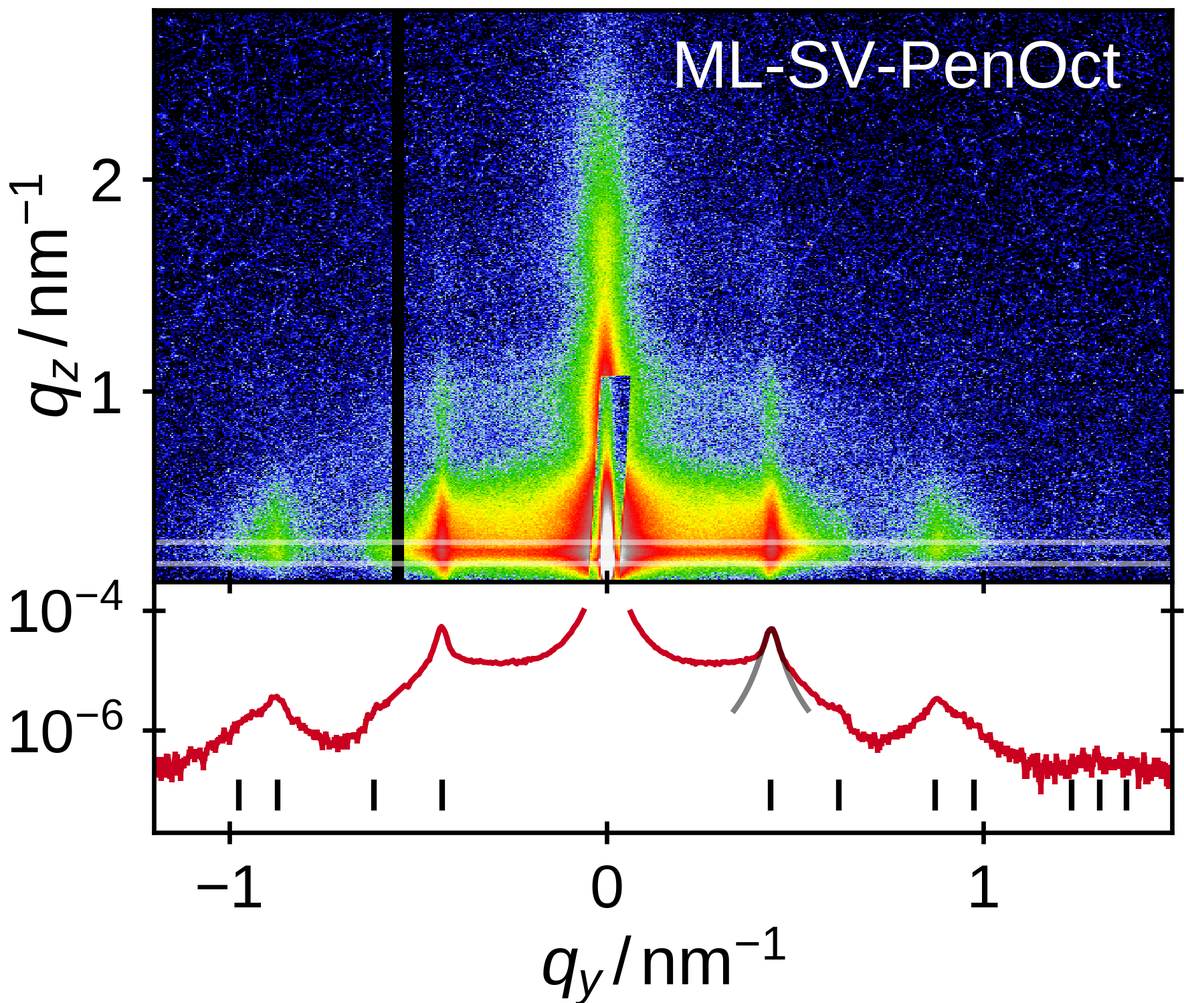
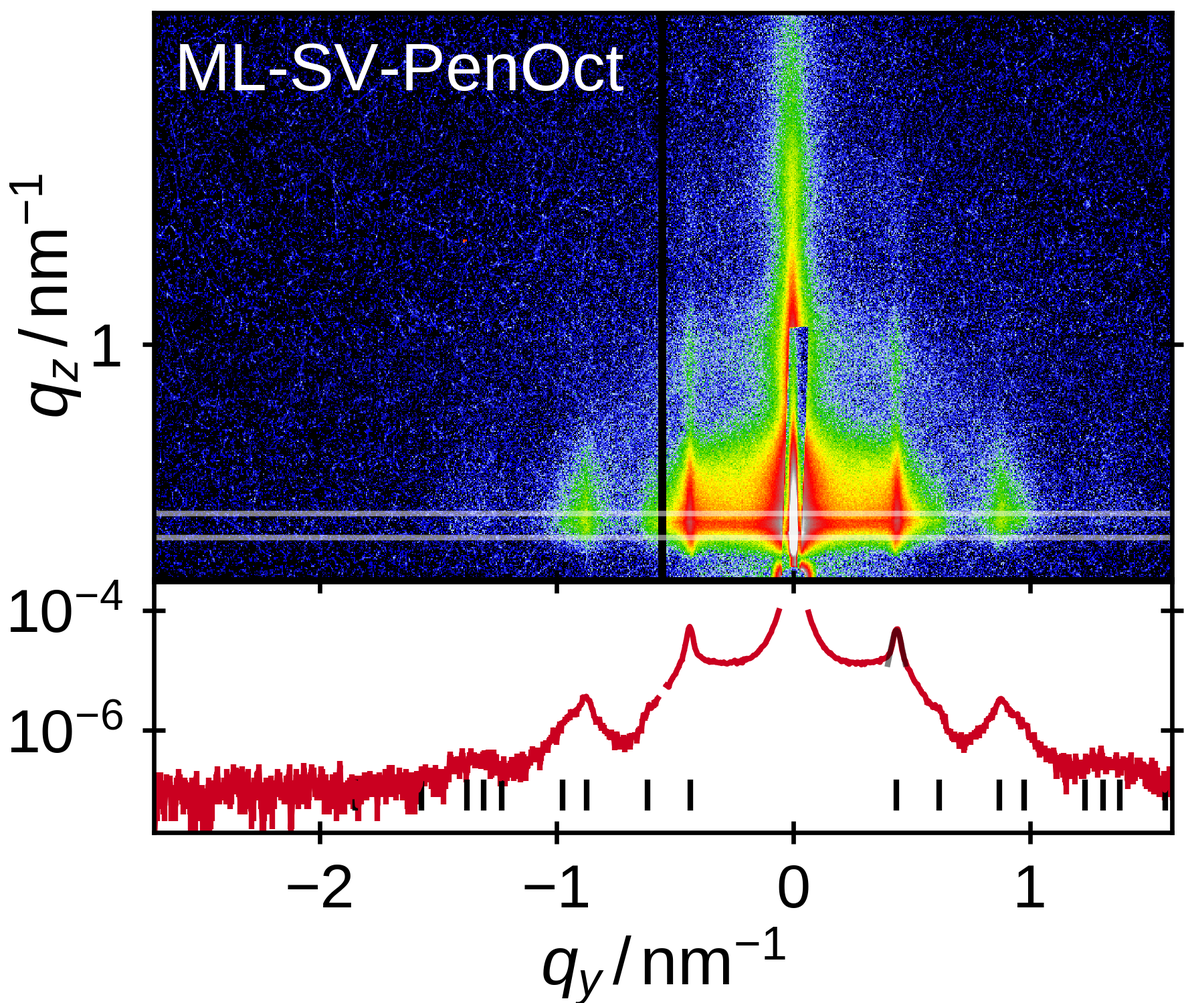
Important corrections in ML performed

diff --git a/data/monolayers/preparation/solventProperties/gisaxs/plot_gisas.py b/data/monolayers/preparation/solventProperties/gisaxs/plot_gisas.py
@@ -12,12 +12,17 @@ from GALAXI.dd_gisaxs.dd_gisaxs import DDGISAXS
 import matplotlib.colors as mcolors
 import matplotlib.patheffects as PathEffects
 from mpl_toolkits.axes_grid1 import make_axes_locatable
+from scipy.special import wofz
 
 default_sdd = 1593.5 + 140
 default_beamcenter = (610.617 - 1.474, 337.923)
 
 qz_min = 0.185
 qz_max = 0.285
+
+vmin = 1e-9
+vmax = 15e-6
+ymin, ymax = 2e-8, 2e-4
 
 chapter = 'monolayers'
 
@@ -62,37 +67,70 @@ def lorentzian(x, p):
   sig = p['sig'].value
   return A * 1./( 4*((x-mu)/sig)**2 + 1 )
 
-def fit_peak(f, Ainit, muinit, siginit, q, I, sI, vary_A=True, vary_mu=True, vary_sig=True):
-  def residuum(p, q, I, sI):
-    return (I - lorentzian(q, p))/sI
-  dq = 0.03
-  sig_beam_width = 0.0195 # nm-1
-  error_sig_beam_width = 0.0007 # nm-1
+def fadeeva(x, p):
+  A = p['A'].value
+  mu = p['mu'].value
+  sigG = p['sigG'].value
+  sigL = p['sigL'].value
+  c = p['c'].value
+  z = ((x - mu) + 1j*sigL/2)/(sigG*np.sqrt(2))
+  return A*wofz(z).real / (sigG*np.sqrt(2*np.pi)) + c
 
+# def fit_peak(f, Ainit, muinit, siginit, q, I, sI, vary_A=True, vary_mu=True, vary_sig=True):
+#   def residuum(p, q, I, sI):
+#     return (I - lorentzian(q, p))/sI
+#   dq = 0.03
+#   sig_beam_width = 0.0195 # nm-1
+#   error_sig_beam_width = 0.0007 # nm-1
+
+#   p = lmfit.Parameters()
+#   p.add('A', Ainit, min=0, vary=vary_A)
+#   p.add('mu', muinit, vary=vary_mu)
+#   p.add('sig', siginit, min=0, vary=vary_sig)
+
+#   fit_range = np.logical_and(muinit-dq < q, q < muinit+dq)
+#   fit_result = lmfit.minimize(residuum,\
+#             p, args=(q[fit_range], I[fit_range], sI[fit_range]))
+#   p_result = fit_result.params
+#   print(lmfit.fit_report(fit_result))
+#   f.write(lmfit.fit_report(fit_result)+'\n')
+#   f.write(f"a = {2*np.pi/p_result['mu'].value} +/- {2*np.pi*p_result['mu'].stderr/p_result['mu'].value**2}\n")
+#   corrected_sig = np.sqrt(p_result['sig'].value**2 - sig_beam_width**2)
+#   error_corrected_sig = np.sqrt(
+#     (p_result['sig'].value/np.sqrt(p_result['sig'].value**2 - sig_beam_width**2) * p_result['sig'].stderr)**2 +
+#     (sig_beam_width/np.sqrt(p_result['sig'].value**2 - sig_beam_width**2) * error_sig_beam_width)**2
+#   )
+#   f.write(f"BeamWidthCorrectedSig = {corrected_sig} +/- {error_corrected_sig}\n")
+#   d_coh = 4*np.pi**2 / corrected_sig
+#   error_d_coh = 4*np.pi**2 / corrected_sig**2 * error_corrected_sig
+#   f.write(f"d_coh = {d_coh} +/- {error_d_coh}\n")
+#   return p_result
+
+def fit_peak(f, Ainit, muinit, siginit, cinit, q, I, sI, dqL=0.03, dqR=0.03, vary_A=True, vary_mu=True, vary_sig=True, vary_c=False):
+  def residuum(p, q, I, sI):
+    return (I - fadeeva(q, p))/sI
   p = lmfit.Parameters()
   p.add('A', Ainit, min=0, vary=vary_A)
   p.add('mu', muinit, vary=vary_mu)
-  p.add('sig', siginit, min=0, vary=vary_sig)
-
-  fit_range = np.logical_and(muinit-dq < q, q < muinit+dq)
+  p.add('sigL', siginit, min=0, vary=vary_sig)
+  p.add('sigG', 0.0084, min=0, vary=False)
+  p.add('c', cinit, min=0, vary=vary_c)
+  fit_range = np.logical_and(muinit-dqL < q, q < muinit+dqR)
   fit_result = lmfit.minimize(residuum,\
             p, args=(q[fit_range], I[fit_range], sI[fit_range]))
   p_result = fit_result.params
   print(lmfit.fit_report(fit_result))
   f.write(lmfit.fit_report(fit_result)+'\n')
-  f.write(f"a = {2*np.pi/p_result['mu'].value} +/- {2*np.pi*p_result['mu'].stderr/p_result['mu'].value**2}\n")
-  corrected_sig = np.sqrt(p_result['sig'].value**2 - sig_beam_width**2)
-  error_corrected_sig = np.sqrt(
-    (p_result['sig'].value/np.sqrt(p_result['sig'].value**2 - sig_beam_width**2) * p_result['sig'].stderr)**2 +
-    (sig_beam_width/np.sqrt(p_result['sig'].value**2 - sig_beam_width**2) * error_sig_beam_width)**2
-  )
-  f.write(f"BeamWidthCorrectedSig = {corrected_sig} +/- {error_corrected_sig}\n")
-  d_coh = 4*np.pi**2 / corrected_sig
-  error_d_coh = 4*np.pi**2 / corrected_sig**2 * error_corrected_sig
+  aLattice = 2*np.pi/p_result['mu'].value
+  error_aLattice = aLattice * p_result['mu'].stderr/p_result['mu'].value
+  f.write(f"a = {aLattice} +/- {error_aLattice}\n")
+
+  d_coh = 4*np.pi**2 / p_result['sigL'].value
+  error_d_coh = d_coh  * p_result['sigL'].stderr/ p_result['sigL'].value
   f.write(f"d_coh = {d_coh} +/- {error_d_coh}\n")
   return p_result
 
-def plot_gisas(filepath, sample_name, f, A10, q10, dq10):
+def plot_gisas(filepath, sample_name, f, A10, q10, dq10, c10, dqL=0.03, dqR=0.03):
   savefile = chapter + '_GISAXS_' + sample_name
   obj = DDGISAXS()
   obj.set_sdd(default_sdd)
@@ -104,10 +142,9 @@ def plot_gisas(filepath, sample_name, f, A10, q10, dq10):
 
   data = obj.get_data()
   qyslice, I_qyslice, sI_qyslice = obj.get_qy_slice(qz_min, qz_max)
-
   if dq10 is not None:
     f.write(f'#Fitting {filepath}\n')
-    p_lorentzian = fit_peak(f, A10, q10, dq10, qyslice, I_qyslice, sI_qyslice)
+    p_lorentzian = fit_peak(f, A10, q10, dq10, c10, qyslice, I_qyslice, sI_qyslice, dqL, dqR)
 
   x0, y0 = 0.13, 0.17
   width, height = 1 - x0 - 0.01, 1 - y0 - 0.01
@@ -118,59 +155,66 @@ def plot_gisas(filepath, sample_name, f, A10, q10, dq10):
 
   pcm = ax.pcolormesh(qy, qz, data.T,\
                       norm=mcolors.LogNorm(),\
-                      cmap=obj.cmap, vmin = 1e-9, vmax=15e-6)
+                      cmap=obj.cmap, vmin=vmin, vmax=vmax)
   ax.axhline(qz_min, color='white', marker='None', alpha=0.5)
   ax.axhline(qz_max, color='white', marker='None', alpha=0.5)
   # divider3 = make_axes_locatable(ax)
   # cax = divider3.append_axes('right', size="2.5%", pad=0.1)
   # cbar = fig.colorbar(pcm, cax=cax, orientation='vertical')
   ax.set_xticks([])
+  ax.set_yticks([0, 1])
   ax2.set_xlabel('$\mathit{q_y} \, / \, nm^{-1}$')
   ax.set_ylabel('$\mathit{q_z} \, / \, nm^{-1}$')
 
-  txt = ax.text(0.95, 0.95,\
+  txt = ax.text(0.02, 0.95,\
           sample_name,\
           color='white',\
-          horizontalalignment='right',
+          horizontalalignment='left',
           verticalalignment='top',\
           transform=ax.transAxes)
   # txt.set_path_effects([PathEffects.withStroke(linewidth=2, foreground='black')])
 
   plot_q_square_lines(q10, ax2)
-  data_left = qyslice<-0.06
+  data_left1 = np.logical_and(qyslice > -0.55, qyslice<-0.06)
+  data_left2 = qyslice<-0.56
   data_right = qyslice>0.06
   ax2.errorbar(
-    qyslice[data_left], I_qyslice[data_left], sI_qyslice[data_left],
-    linestyle='-', capsize=0, elinewidth=1, color='#ca0020'
+    qyslice[data_left1], I_qyslice[data_left1], sI_qyslice[data_left1],
+    linestyle='-', marker='None', capsize=0, elinewidth=1, color='#ca0020'
+  )
+  ax2.errorbar(
+    qyslice[data_left2], I_qyslice[data_left2], sI_qyslice[data_left2],
+    linestyle='-', marker='None', capsize=0, elinewidth=1, color='#ca0020'
   )
   ax2.errorbar(
     qyslice[data_right], I_qyslice[data_right], sI_qyslice[data_right],
-    linestyle='-', capsize=0, elinewidth=1, color='#ca0020'
+    linestyle='-', marker='None', capsize=0, elinewidth=1, color='#ca0020'
   )
   if dq10 is not None:
-    plot_width = 0.1
-    plot_lorentzian = np.logical_and(p_lorentzian['mu'].value-plot_width < qyslice, qyslice < p_lorentzian['mu'].value+plot_width)
+    plot_width = 0.5
+    plot_lorentzian = np.logical_and(p_lorentzian['mu'].value-dqL < qyslice, qyslice < p_lorentzian['mu'].value+dqR)
     ax2.plot(
-      qyslice[plot_lorentzian], lorentzian(qyslice[plot_lorentzian], p_lorentzian),
+      qyslice[plot_lorentzian], fadeeva(qyslice[plot_lorentzian], p_lorentzian),
       linestyle='-', marker='None', color='black', zorder=10, alpha=0.5
     )
   ax2.set_yscale('log')
   # ax2.get_yaxis().set_visible(False)
   plt.setp(ax.get_xticklabels(), visible=False)
-  # plt.setp(ax2.get_yticklabels(), visible=False)
-  # ax.legend(loc='best')
-  ax.set_xlim(-1.2,1.5)
-  ax2.set_xlim(-1.2,1.5)
-  ax.set_ylim(0.1, 2.8)
+  # ax.set_xlim(-1.1,1.6)
+  # ax2.set_xlim(-1.1,1.6)
+  # ax.set_ylim(0, 1.5)
+  ax.set_xlim(-2.7,1.6)
+  ax2.set_xlim(-2.7,1.6)
+  ax.set_ylim(0.01, 2.4)
   ax2.set_ylim([2e-8, 3e-4])
-  # ax2.legend()
+  ax.set_aspect('equal')
   fig.savefig(cwd + '/' + savefile)
   fig.savefig(thesisimgs+'/'+savefile)
-
+  # plt.show()
 with open('peak_fit_parameters', 'w') as f:
   f.write('#Fitting first order peak of GISAXS data\n')
   f.write(f'#Date of execution: {dt.datetime.now()}\n')
-  plot_gisas(cwd+"/DD192_Hex2_2_ai_0-11.h5", 'ML-SV-HexTet', f, 5e-5, 0.439, None)
-  plot_gisas(cwd+"/DD192_Pen2_2_ai_0-11.h5", 'ML-SV-PenOct', f, 5e-5, 0.436, 4.6e-2)
-  plot_gisas(cwd+"/DD192_Hex1_2_ai_0-11.h5", 'ML-SV-HexOct', f, 5e-5, 0.4417, 3e-2)
-  plot_gisas(cwd+"/DD192_Hep1_2_ai_0-11.h5", 'ML-SV-HepOct', f, 5e-5, 0.477, 2.4e-2)
+  plot_gisas(cwd+"/DD192_Hex2_2_ai_0-11.h5", 'ML-SV-HexTet', f, 5e-5, 0.46272770, 0.11090645, 2e-7, dqL=0.05, dqR=0.1)
+  plot_gisas(cwd+"/DD192_Pen2_2_ai_0-11.h5", 'ML-SV-PenOct', f, 5e-5, 0.43573512, 0.04453507, 2e-7, dqL=0.04, dqR=0.04)
+  plot_gisas(cwd+"/DD192_Hex1_2_ai_0-11.h5", 'ML-SV-HexOct', f, 5e-5, 0.44156585, 0.02555754, 2e-7, dqL=0.04, dqR=0.04)
+  plot_gisas(cwd+"/DD192_Hep1_2_ai_0-11.h5", 'ML-SV-HepOct', f, 5e-5, 0.47487305, 0.01489098, 2e-7, dqL=0.05, dqR=0.05)

diff --git a/chapters/monolayers/preparationMonolayers/solventVariation/solventVariation.tex b/chapters/monolayers/preparationMonolayers/solventVariation/solventVariation.tex
@@ -56,15 +56,17 @@
       \includegraphics{monolayers_GISAXS_ML-SV-PenOct}
       \includegraphics{monolayers_GISAXS_ML-SV-HexOct}
       \includegraphics{monolayers_GISAXS_ML-SV-HepOct}
-      \caption{\label{fig:monolayers:preparation:solventVariation:gisaxs}GISAXS detector images measured under an incident angle of $\alpha_i \eq 0.11 ^\circ$ to study the average lateral structure of the samples shown in \reffig{fig:monolayers:preparation:solventVariation:sem}. Below the detector images, the respective scattering intensity in the strip around the Yoneda line is shown. For the ordered samples, the first order reflection is fitted to a Lorentzian function with the parameters tabulated in \reftab{tab:monolayers:solventProperties:GisaxsLatticeParams}.}
+      \caption{\label{fig:monolayers:preparation:solventVariation:gisaxs}GISAXS detector images measured under an incident angle of $\alpha_i \eq 0.11^\circ$ to study the average lateral structure of the samples shown in \reffig{fig:monolayers:preparation:solventVariation:sem}. Below the detector images, the respective scattering intensity in the strip around the Yoneda line is shown. The first order reflection is fitted to a Voigt function with the refined parameters for the reflection position and Lorentzian broadening tabulated in \reftab{tab:monolayers:solventProperties:GisaxsLatticeParams}.}
     \end{figure}
 
     To quantify the in-plane order, the presented samples are studied using grazing incidence small-angle X-ray scattering at GALAXI (\refsec{ch:lss:galaxi}), shown in \reffig{fig:monolayers:preparation:solventVariation:gisaxs}.
     ML-SV-HexTet shows no significant long-range ordered structure factor in the Yoneda band, but mainly scattering coming from the form factor of the individual nanoparticles and a modulation by a short-ranged structure factor.
     For the remaining three samples distinct reflections emerge on top, which increase in intensity and sharpen for higher order alkanes.
-    The first order reflection of the structured monolayers is fit by a Lorentzian function to determine it's center position  $q_{10}$ and it's reflection width $\gamma_{10}$, which both are tabulated in \reftab{tab:monolayers:solventProperties:GisaxsLatticeParams}.
+    The first order reflection of the structured monolayers is fit by a Voigt function to determine it's center position  $q_{10}$ and it's Lorentzian broadening $\gamma_{10}$ while accounting for the finite instrumental resolution by a Gaussian broadening of $\sigma_G \eq 0.0084 \unit{nm^{-1}}$.
+    The obtained (10) reflection positions, as well as the Lorentzian broadening are both tabulated in \reftab{tab:monolayers:solventProperties:GisaxsLatticeParams} for the four samples.
     The expected reflection positions for a square array are deduced from $q_{10}$ and indicated as black bars below the projected intensity of the Yoneda line.
     For ML-SV-PenOct, ML-SV-HexOct and ML-SV-HepOct the position of all reflections fit to the square array pattern.
+    For ML-SV-HexTet, the (11) reflection is not observed, which further indicates that no long-range order is obtained in this sample.
 
     \begin{table}[tb]
       \centering
@@ -72,15 +74,17 @@
       \begin{tabular}{ c | l | l || l | l | l}
         \textbf{GISAXS}  & $q_{10} \,/ \unit{nm^{-1}}$ & $\gamma_{10} \, / \unit{nm^{-1}}$ & $a\, / \unit{nm}$ & $L_{\mathrm{coh.}}\, / \unit{nm}$ & $\sigma_\mathrm{n.N.} \, / \unit{nm}$ \\
         \hline
-        ML-SV-PenOct    & $0.4367(3)$    & $0.042(1)$    & $14.39(1)$    & $1061(35)$  & $1.()$\\
-        ML-SV-HexOct    & $0.4342(1)$    & $0.030(1)$    & $14.22(1)$    & $1721(86)$  & $1.()$\\
-        ML-SV-HepOct    & $0.4747(6)$    & $0.024(2)$    & $13.24(2)$    & $2662(477)$ & $1.()$\\
+        ML-SV-HexTet    & $0.4617(11)$   & $0.113(4)$    & $13.61(3)$    & $348(11)$   & $2.69(4)$\\
+        ML-SV-PenOct    & $0.4362(7)$    & $0.039(2)$    & $14.40(2)$    & $1010(64)$  & $1.72(5)$\\
+        ML-SV-HexOct    & $0.4417(4)$    & $0.023(1)$    & $14.23(1)$    & $1710(95)$  & $1.30(4)$\\
+        ML-SV-HepOct    & $0.4749(3)$    & $0.015(7)$    & $13.23(1)$    & $2623(119)$ & $0.94(2)$\\
         \hline
       \end{tabular}
     \end{table}
 
-    A close inspection of the reflection positions and width in \reftab{tab:monolayers:solventProperties:GisaxsLatticeParams} shows that for increasing order of the alkane, the lattice constant reduces and the coherence length increases.
+    A close inspection of the reflection positions and width in \reftab{tab:monolayers:solventProperties:GisaxsLatticeParams} shows that for increasing order of the alkane in the 1-octadecene samples, the lattice constant reduces and the coherence length increases.
     Both can be explained by an improved packing of the square lattice and indicates that higher alkanes increase the long-range order.
-    This quantitatively supports the qualitative observation made by SEM and reveals that the combination of \textit{n}-heptane with 1-octadecene yields the highest quality square arrays.
+    Combining furthermore the lattice constant and coherence length to the uncertainty in the nearest neighbour position $\sigma_\mathrm{n.N.}$, ML-SV-HexTet can be included in this series as the sample with the lowest degree of order.
+    Finally, this quantitatively supports the qualitative observation made by SEM and reveals that the combination of \textit{n}-heptane with 1-octadecene yields the highest quality square arrays for the tested combinations.
   \FloatBarrier
 \end{document}

diff --git a/chapters/monolayers/preparationMonolayers/oleicAcidAddend/oleicAcidAddend.tex b/chapters/monolayers/preparationMonolayers/oleicAcidAddend/oleicAcidAddend.tex
@@ -8,11 +8,15 @@
     \caption{\label{fig:monolayers:preparation:solventVariation:NoOAAddend}SEM micrograph of Ac-CoFe-C-3 drop casted from a \textit{n}-heptane/octadecene dispersion.}
   \end{figure}
 
-  Additionally to the alkene additive that is added, the fraction of oleic acid in the dispersion plays a role in the self-assembly process.
-  Oleic acid is naturally in the dispersion from the synthesis procedure as became visible in the SANS characterization of the dispersions in \refsec{sec:monolayers:nanoparticle:sas}.
-  From \reffig{fig:monolayers:preparation:solventVariation:NoOAAddend}, it is visible that drop casting Ac-CoFe-C-3 in a similar combination of \textit{n}-heptane/octadecene as discussed in the previous section shows no long range order formation.
+  % Additionally to the alkene additive that is added, the fraction of oleic acid in the dispersion plays a role in the self-assembly process.
+  Excess oleic acid is naturally in the dispersion from the synthesis procedure as became visible in the SANS characterization of the dispersions in \refsec{sec:monolayers:nanoparticle:sas}.
+  It is essential for the stabilization of the nanoparticles in dispersion, and a common trick to avoid precipitation of the nanoparticles is to add fresh oleic acid after redispersion \cite{Wetterskog_2014_Preci}.
+  The exact volume fraction in a dispersion varies depending on the number of washing steps and which solvents are used during the purification process.
+  From \reffig{fig:monolayers:preparation:solventVariation:NoOAAddend}, it is visible that drop casting Ac-CoFe-C-3 in the same combination of \textit{n}-heptane/octadecene as discussed in the previous section does not form a long range ordered array.
   Instead disconnected sheets of short-range ordered nanocubes are visible across the substrate and single nanocubes are sprinkled around them.
-  To discuss which influence the oleic acid content has on the long range order formation, four dispersions from the same stock solution and only varied oleic acid content are shown in \reffig{fig:monolayers:preparation:solventVariation:OAAddend}.
+  As the oleic acid content in nanoparticle dispersions is not a strictly controlled parameter, the idea comes to mind that it's also important for the self-assembly process.
+
+  To discuss which influence the oleic acid content has on the long range order formation, four dispersions from the same stock solution of Ac-CoFe-C-3 and only varied oleic acid content are shown in \reffig{fig:monolayers:preparation:solventVariation:OAAddend}.
 
   \begin{figure}[tb]
     \centering
@@ -26,6 +30,6 @@
   The micrographs clearly show the trend for increasing long-ranged order with increase of the oleic acid content above $c_V^\textsf{OA} \eq 5\cdot10^{-3} \unit{\%}$.
   This concentration corresponds to a oleic acid film thickness of approximately $25 \unit{nm}$ if distributed homogeneously on the substrate surface.
   This coincides close to the nanocube size of approximately $12.5 \unit{nm}$.
-  The amount of oleic acid that can be added to the dispersion is limited, as oleic acid as a high-boiling solvent that is difficult to remove from the wafer after the drying of the primary solvent.
+  The amount of oleic acid that can be added to the dispersion is limited, as oleic acid is a solvent with a high boiling point ($T_\mathrm{bp} \eq 360 \unit{^\circ C}$) that is even more difficult to remove as 1-octadecene from a wafer after the drying of the primary solvent.
   It is reasonable to assume that the additional oleic acid during the final drying stage functions as a thin mobilization layer on which the nanocubes can still move in two dimensions, rearrange and reduce the defects in the lattice.
 \end{document}

diff --git a/chapters/monolayers/preparationMonolayers/summary/summary.tex b/chapters/monolayers/preparationMonolayers/summary/summary.tex
@@ -4,13 +4,14 @@
 \begin{document}
   By varying the solvent/co-solvent combination and drying procedure, a method to prepare long-range ordered monolayers of oleic acid ligated nanoparticles is presented.
   An experimental series on Ol-CoFe-C with alkane/alkene combinations as solvent/co-solvent, reveals that a combination of \textit{n}-heptane together with an additive of $2 \%$ octadecene in dispersion results in the highest long-range order.
-  The protocol for evaporation of the dispersion on a substrate is hereby given to evaporate the fast evaporating \textit{n}-heptane at ambient conditions, and then removing the slow-evaporating component in a balanced oven at $80 ^\circ$.
+  The protocol for the preparation of the monolayers on a substrate is hereby given by first evaporating the primary solvent \textit{n}-heptane at ambient conditions, and then removing most parts of the 1-octadecene in a balanced oven at $80 ^\circ$.
   For further reduction of the organic remnants, the sample should be heated to $140 ^\circ$ and can subsequently be rinsed with ethyl acetate on a spin coater.
   \\
 
-  The developed preparation method can be transferred to spherical nanoparticles, which results in hexagonal order and to nanocubes from another phase such as iron oxide.
-  Variation of nanoparticles, show that dispersions that do not order by the presented method, can be ordered by adding a small fraction of oleic acid in the order of $10^{-4}$, which is discussed by the example of the nanocubes in the Ac-CoFe-C-3 batch.
-  This coincides with the volume fraction of oleic acid that was found by the SANS characterization of the dispersions earlier during the nanoparticle characterization.
+  The developed preparation method can be transferred to spherical nanoparticles, which results in hexagonal order, and to nanocubes of different materials such as magnetite.
+  Furthermore, it is observed that the self-assembly process is sensitive to the amount of oleic acid in the dispersion.
+  From a series of Ac-CoFe-C-3 nanocube dispersions with varied oleic acid content, a optimal fraction in the order of $5 - 10 \cdot 10^{-3}$ is observed.
+  This corresponds to a thin layer of $25 - 50 \unit{nm}$ on the substrate.
   Finally, it is shown that it is possible to direct the orientation of the nanocubes in the monolayer by applying a magnetic field during the drying procedure.
   \\
 

diff --git a/chapters/monolayers/experimentalMethods/dropcastingExperiments/dropcastingExperiments.tex b/chapters/monolayers/experimentalMethods/dropcastingExperiments/dropcastingExperiments.tex
@@ -89,7 +89,7 @@
       The discussed samples are listed in \reftab{tab:monolayers:charMethod:varyAlkaneAlkene} and are named with the structure ML-SV-$XY$, where $X$ is the abbreviated primary solvent and Y the abbreviated co-solvent.
       By using SEM and GISAXS, the lateral order of the samples is quantified.
       As reference to a sample with no added co-solvent, the sample ML-SV-HexNone is discussed, which is drop casted from $\mathit{n}$-hexane.
-      As combination of alkan and alkene, hexane with tetradecene, and $\mathit{n}$-pentane, $\mathit{n}$-hexane and $\mathit{n}$-heptane with 1-octadecene are discussed.
+      As combination of alkane and alkene, \textit{n}-hexane with 1-tetradecene, and $\mathit{n}$-pentane, $\mathit{n}$-hexane and $\mathit{n}$-heptane with 1-octadecene are discussed.
 
       The GISAXS experiments were performed at GALAXI ($\lambda \eq 1.34 \angstrom$) by measuring the scattering under a grazing-incidence angle of $\alpha_i \eq 0.11^\circ$ over an integrated time of $4 \unit{h}$ each.
       The sample-to-detector distance is set to $1.733 \unit{m}$ for all measurements, which is determined by a calibration measurement of silver behenate.
@@ -127,7 +127,7 @@
       as shown in \refapp{ch:appendix:calculations:paracrystal}.
       The uncertainty in the nearest neighbour position $\sigma_{\mathrm{n.N.}}$ is deduced in the paracrystal model from
       \begin{align}
-        \sigma_{\mathrm{n.N.}} \eq \frac{a^3}{L_\mathrm{coh.}}.
+        \sigma_{\mathrm{n.N.}} \eq \sqrt{\frac{a^3}{L_\mathrm{coh.}}}.
       \end{align}
 
     \paragraphNewLine{Oleic Acid Addend}

diff --git a/chapters/monolayers/preparationMonolayers/dryingConditions/dryingConditions.tex b/chapters/monolayers/preparationMonolayers/dryingConditions/dryingConditions.tex
@@ -43,7 +43,7 @@
     Leaving the oily film on the substrate to rest for several weeks does not reveal any sign of evaporation of the thin-film.
     Increasing the temperature of the wafer by a heating plate, speeds up the drying of the oily film but produces an inhomogeneous drying pattern that is visible by eye.
     The slow baking in an oven after the evaporation of the primary solvent at relatively low temperatures has proven to be the best method to produce a homogeneous evaporation of the secondary phase.
-    By successively increasing the temperature of an oven, it was found that a temperature of approximately $140 \unit{^\circ C}$ is necessary to be applied to the monolayer for at least $6 \unit{h}$ to remove the organic compounds to most parts in the time frame of $1 - 2 \unit{days}$.
+    By successively increasing the baking temperature, it was found that a temperature of approximately $140 \unit{^\circ C}$ is necessary to be applied to the monolayer for at least $6 \unit{h}$ to remove the organic compounds to most parts in the time frame of $1 - 2 \unit{days}$.
 
     To achieve a homogeneous evaporation, the best found method is to place the substrate within a glass Petri dish that is covered with an aluminum foil, which is perforated along the edge.
     The aluminum foil protects the wafer for one from dust and from other dirt in the oven, while it also directs the evaporating flow to controllably stream out the perforated edge.

diff --git a/chapters/monolayers/structuralCharacterization/squareArrayParacrystal/squareArrayParacrystal.tex b/chapters/monolayers/structuralCharacterization/squareArrayParacrystal/squareArrayParacrystal.tex
@@ -23,7 +23,7 @@
 
   \begin{table}[!htbp]
     \centering
-    \caption{\label{tab:monolayers:structure:squareArrayParacrystal:BornAgainSimulation}Parameters of the simulated nanocubes in a paracrystalline square lattice shown in \reffig{fig:monolayers:structure:ML-Ac-CoFe-C-2:GISAXS} determined from the pseudo-Voigt fit of the first order peak, the XRR characterization of the layer (\refsec{sec:monolayers:structure:verticalModel}) and the SAS characterization of the nanocubes (\refsec{sec:monolayers:nanoparticle:}).}
+    \caption{\label{tab:monolayers:structure:squareArrayParacrystal:BornAgainSimulation}Parameters of the simulated nanocubes in a paracrystalline square lattice shown in \reffig{fig:monolayers:structure:ML-Ac-CoFe-C-2:GISAXS} determined from the pseudo-Voigt fit of the first order peak, the XRR characterization of the layer (\refsec{sec:monolayers:structure:verticalModel}) and the SAS characterization of the nanocubes (\refsec{sec:monolayers:nanoparticle:sas}).}
     \begin{tabular}{l | c}
       \hline
       \multicolumn{2}{c}{\textbf{Paracrystal}}\\

diff --git a/chapters/monolayers/structuralCharacterization/intro/intro.tex b/chapters/monolayers/structuralCharacterization/intro/intro.tex
@@ -46,5 +46,5 @@
   The self-assembly process is size-selective in that it favors the alignment of equal sized particles.
   Inspecting the cracks shows that in some cases they are filled with particles that are substantially smaller than the average particle size.
   Also it also has to be noted that in both samples, no additional oleic acid had been added to the dispersion before drop casting.\footnote{The reason is that the effect of oleic acid addition was discovered after most X-ray and neutron experiments had been performed.}
-  At last, it should be noted that Ac-CoFe-C-2 shows a stronger magnetism than Ac-CoFe-C, which from the experiment of drop casting within a magnetic field is promoting a better order in the self-assembly process.
+  % At last, it should be noted that Ac-CoFe-C-2 shows a stronger magnetism than Ac-CoFe-C, which from the experiment of drop casting within a magnetic field is promoting a better order in the self-assembly process.
 \end{document}

diff --git a/chapters/monolayers/preparationMonolayers/preparationMonolayers.tex b/chapters/monolayers/preparationMonolayers/preparationMonolayers.tex
@@ -8,7 +8,7 @@
     \subsection{Solvent/Co-Solvent Variation}
       \subfile{\thisPath/solventVariation/solventVariation}
       \FloatBarrier
-      \subsubsection{Oleic Acid Addend}
+      \subsubsection{Oleic Acid Additive}
         \subfile{\thisPath/oleicAcidAddend/oleicAcidAddend}
         \FloatBarrier
 
